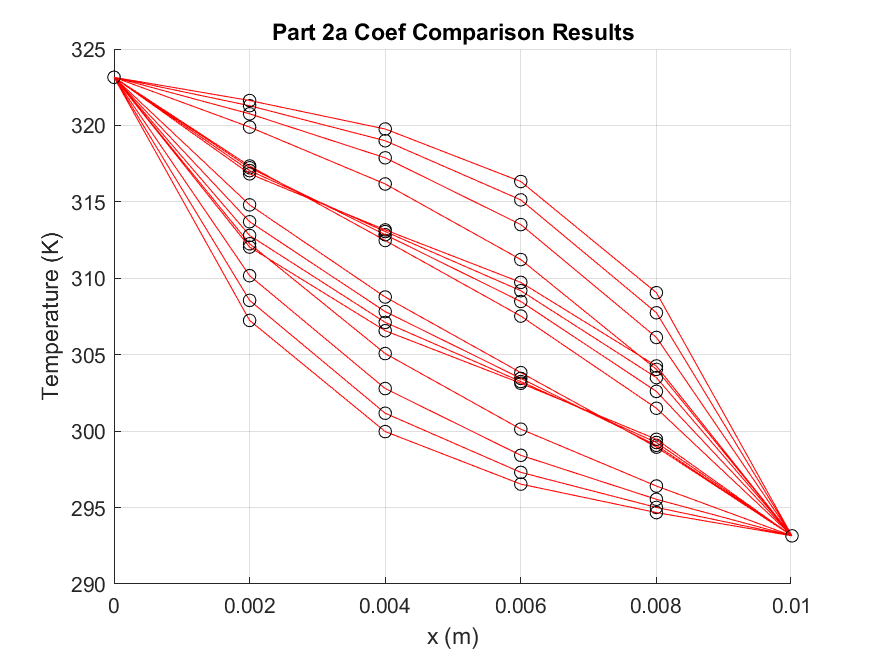
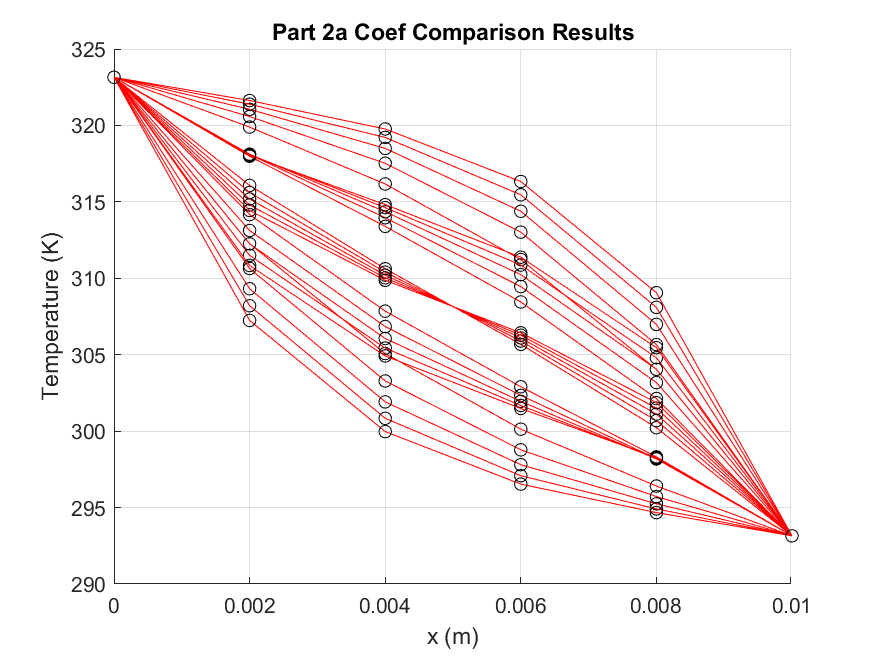
Make various plots in part2batch with supporting code.

Changed region(s): [[0.1234, 0.122, 0.8949, 0.8232]]

diff --git a/part2batch.m b/part2batch.m
@@ -1,7 +1,7 @@
 %%Set up path space
 p=genpath('lib');addpath(p);p=genpath('status');addpath(p);p=genpath('src');addpath(p);
 
-Batch=problemBatch(@part2a,[0.5 294.15 5],[1.5 322.15 5],[4 4 1]);
+Batch=problemBatch(@part2a,[0.5 294.15 5],[1.5 322.15 5],[5 5 1]);
 Batch=solveBatch(Batch);
 
 %Set Plot Options
@@ -17,10 +17,28 @@ close all
 plotSolution(Batch,PlotOpts,extraFcn);
 
 %3D plot max positions.
+
 f=figure(3);
-[x,y,z]= generateContorMatricies(Batch,1,2,4);
-contourf(x,y,z,10,'ShowText','on');
+[x,y,z]= generateContorMatricies(Batch,1,2,3);
+[cc,hh]=contourf(x,y,z,10,'ShowText','on');
+hh.LevelList=round(hh.LevelList,0);  %rounds levels to 3rd decimal place
+  clabel(cc,hh)
 xlabel('Q');
 ylabel('TL');
 zlabel('c value');
 saveas(f,'status/part2a_contor.png');
+
+
+%Plot how temp profile varies with Q
+f4=figure('pos',[400,400,620,475]);
+[x,y,z]= compileResultProfiles(Batch,1,1);
+contourf(x,y,z,50,'ShowText','off','LineColor','none');
+hold on
+[cc,hh]=contour(x,y,z,6,'ShowText','on','LineColor','k');
+hh.LevelList=round(hh.LevelList,0);  %rounds levels to 3rd decimal place
+  clabel(cc,hh)
+xlabel('TL');
+ylabel('x');
+zlabel('c value');
+saveas(f4,'status/part2a_profile.png');
+
